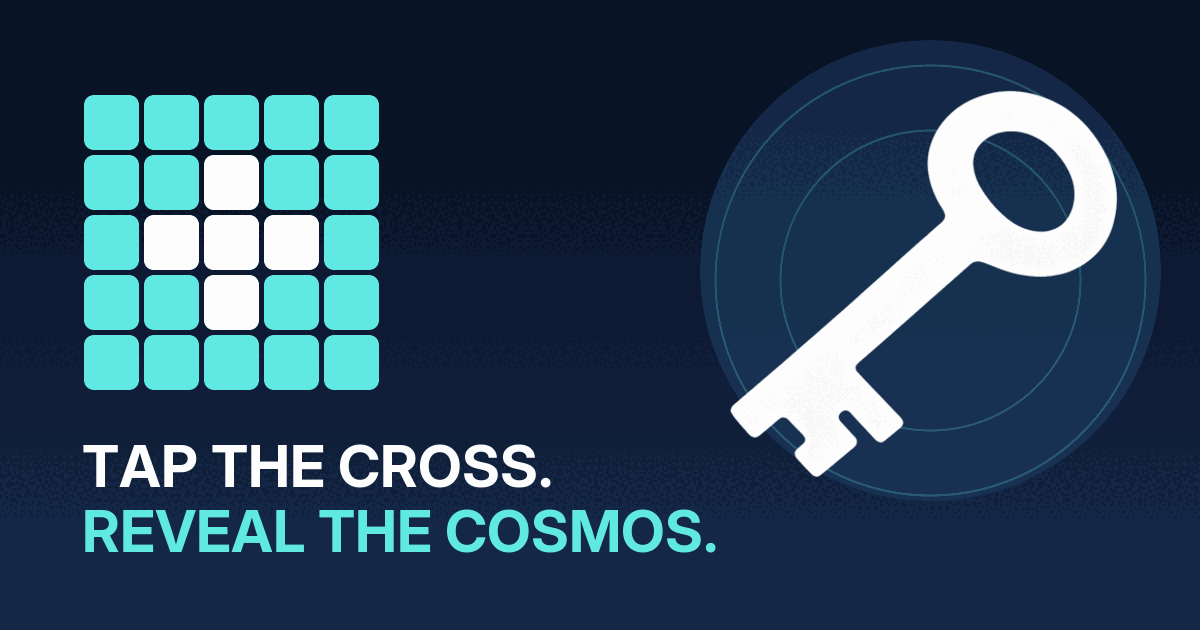
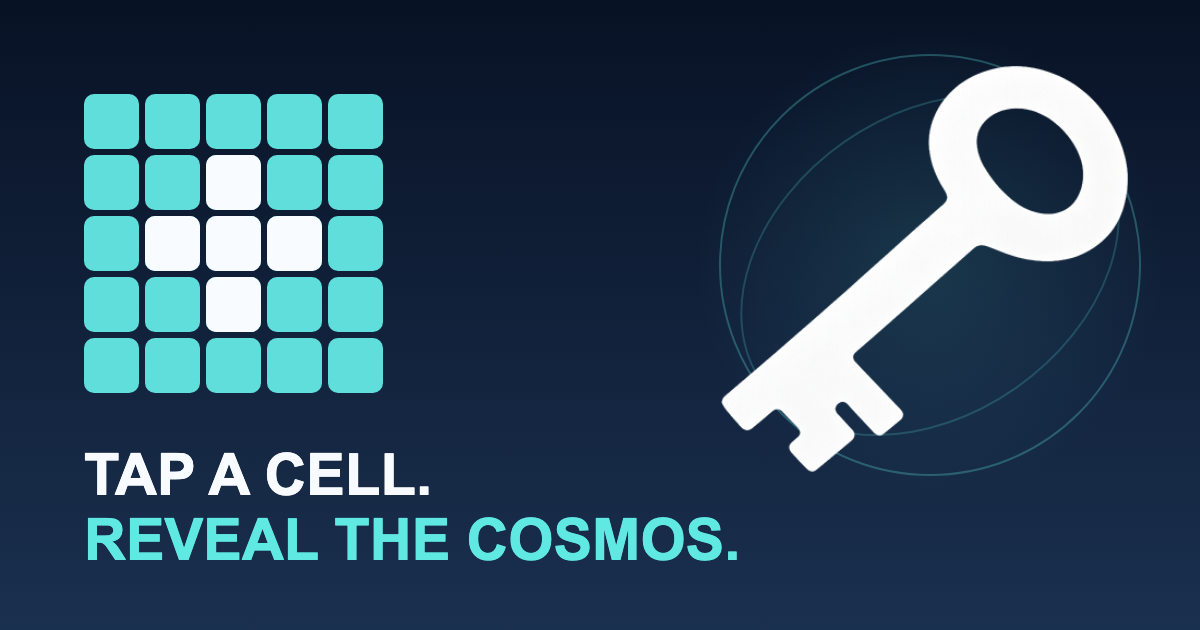
fix: align site copy with game localization

diff --git a/stage2-localization.js b/stage2-localization.js
@@ -48,6 +48,105 @@ window.stageTwoTranslations = {
     }
 };
 
+// Product copy aligned with the v1.2.0 in-game localization exports and ASO metadata.
+const alignedProductCopy = {
+    en: {
+        hero_eyebrow:'Calm 5×5 brain teasers',hero_title_stage2:'Tap a cell.<br>Reveal the cosmos.',hero_description:'Tap a cell to switch it and its adjacent cells. Clear all lights, collect Light Shards, adjust seven telescope lenses, and reveal one of 100 constellations.',
+        demo_title:'Clear all lights',demo_instruction:'Tap a cell — it and its adjacent cells will switch their state.',demo_reveal_title:'Key of Dreams',demo_reveal_lore:'The Key of Dreams was said to unlock hidden celestial paths.',
+        journey_eyebrow:'From puzzle to constellation',journey_intro:'Solve puzzles, adjust seven lenses, and capture a new constellation.',journey_solve_title:'Solve the puzzle',journey_solve_body:'Tap a cell — it and its adjacent cells will switch their state.',journey_shards_title:'Collect Light Shards',journey_shards_body:'Solve puzzles to collect Light Shards.',journey_lenses_title:'Adjust seven lenses',journey_lenses_body:'Each solved puzzle helps adjust one lens.',journey_reveal_title:'Reveal a constellation',journey_reveal_body:'Add its illustrated story to your Constellation archive.',
+        features_eyebrow:'New goals every day',feature_calm_title:'No timer—think at your own pace',feature_calm_body:'Plan each move and clear the grid within the move limit.',feature_daily_title:'Daily Challenge',feature_daily_body:'Every day has five stages. Clear all five to complete the day.',feature_missions_title:'Missions',feature_missions_body:'Complete goals as you play, earn Mission points, and claim milestone rewards.',feature_practice_title:'Practice',feature_practice_body:'Keep solving without rewards when you run out of Hearts. Core puzzles work offline.',
+        collection_eyebrow:'Constellation archive',collection_body:'Rebuild your telescope, reveal the Key of Dreams, and add every illustrated story to your archive.',gallery_eyebrow:'In-game screenshots'
+    },
+    ru: {
+        hero_eyebrow:'Спокойные головоломки 5×5',hero_title_stage2:'Нажмите на клетку.<br>Откройте космос.',hero_description:'Нажмите на клетку — она и соседние клетки изменят своё состояние. Погасите все огни, получайте осколки света, настраивайте семь линз телескопа и открывайте одно из 100 созвездий.',
+        demo_title:'Уберите все светящиеся клетки',demo_instruction:'Нажмите на клетку — она и соседние клетки изменят своё состояние.',demo_reveal_title:'Ключ Снов',demo_reveal_lore:'Считалось, что Ключ Снов открывает скрытые небесные тропы.',
+        journey_eyebrow:'От головоломки к созвездию',journey_intro:'Решайте головоломки, настраивайте семь линз и открывайте новое созвездие.',journey_solve_title:'Решите головоломку',journey_solve_body:'Нажмите на клетку — она и соседние клетки изменят своё состояние.',journey_shards_title:'Получайте осколки света',journey_shards_body:'Решайте головоломки и получайте осколки света.',journey_lenses_title:'Настройте семь линз',journey_lenses_body:'Каждый решённый пазл помогает настроить одну из линз.',journey_reveal_title:'Откройте созвездие',journey_reveal_body:'Добавьте его иллюстрированную историю в архив созвездий.',
+        features_eyebrow:'Новые цели каждый день',feature_calm_title:'Без таймера — думайте в своём темпе',feature_calm_body:'Продумывайте каждый ход и очистите поле за доступное число ходов.',feature_daily_title:'Ежедневное испытание',feature_daily_body:'Каждый день — 5 этапов. Пройдите все 5, чтобы закрыть день.',feature_missions_title:'Миссии',feature_missions_body:'Выполняйте игровые цели, получайте очки миссий и забирайте награды за достигнутые этапы.',feature_practice_title:'Тренировка',feature_practice_body:'Продолжайте решать головоломки без наград, когда закончатся сердца. Основные головоломки доступны офлайн.',
+        collection_eyebrow:'Архив созвездий',collection_body:'Восстановите телескоп, откройте Ключ Снов и добавьте все иллюстрированные истории в архив.',gallery_eyebrow:'Скриншоты из игры'
+    },
+    sr: {
+        hero_eyebrow:'Opuštajuće mozgalice 5×5',hero_title_stage2:'Dodirni polje.<br>Otkrij svemir.',hero_description:'Dodirni polje — ono i susedna polja promeniće stanje. Ugasi sva svetla, sakupljaj Oskolke svetla, podesi sedam sočiva teleskopa i otkrij jedno od 100 sazvežđa.',
+        demo_title:'Ukloni sva osvetljena polja',demo_instruction:'Dodirni polje — ono i susedna polja promeniće stanje.',demo_reveal_title:'Ključ Snova',demo_reveal_lore:'Smatralo se da Ključ Snova otključava skrivene nebeske puteve.',
+        journey_eyebrow:'Od zagonetke do sazvežđa',journey_intro:'Rešavaj zagonetke, podesi sedam sočiva i otkrij novo sazvežđe.',journey_solve_title:'Reši zagonetku',journey_solve_body:'Dodirni polje — ono i susedna polja promeniće stanje.',journey_shards_title:'Sakupljaj Oskolke svetla',journey_shards_body:'Rešavaj zagonetke i sakupljaj Oskolke svetla.',journey_lenses_title:'Podesi sedam sočiva',journey_lenses_body:'Svaka rešena slagalica pomaže da se jedno sočivo podesi.',journey_reveal_title:'Otkrij sazvežđe',journey_reveal_body:'Dodaj njegovu ilustrovanu priču u arhivu sazvežđa.',
+        features_eyebrow:'Novi ciljevi svakog dana',feature_calm_title:'Bez tajmera — razmišljaj svojim tempom',feature_calm_body:'Isplaniraj svaki potez i očisti mrežu u okviru ograničenog broja poteza.',feature_daily_title:'Dnevni izazov',feature_daily_body:'Svaki dan ima pet etapa. Završi svih pet da zatvoriš dan.',feature_missions_title:'Misije',feature_missions_body:'Ispunjavaj ciljeve tokom igre, osvajaj poene Misija i preuzimaj nagrade za dostignute etape.',feature_practice_title:'Trening',feature_practice_body:'Nastavi da rešavaš zagonetke bez nagrada kada ostaneš bez srca. Osnovne zagonetke mogu da se igraju oflajn.',
+        collection_eyebrow:'Arhiva sazvežđa',collection_body:'Obnovi teleskop, otkrij Ključ Snova i dodaj svaku ilustrovanu priču u arhivu.',gallery_eyebrow:'Snimci iz igre'
+    },
+    es: {
+        hero_eyebrow:'Acertijos relajantes 5×5',hero_title_stage2:'Toca una celda.<br>Revela el cosmos.',hero_description:'Toca una celda: ella y sus vecinas cambiarán de estado. Apaga todas las luces, consigue Fragmentos de luz, ajusta las siete lentes del telescopio y revela una de 100 constelaciones.',
+        demo_title:'Apaga todas las luces',demo_instruction:'Toca una celda: ella y sus vecinas cambiarán de estado.',demo_reveal_title:'Llave de los Sueños',demo_reveal_lore:'Se decía que la Llave de los Sueños abría caminos celestiales ocultos.',
+        journey_eyebrow:'Del acertijo a la constelación',journey_intro:'Resuelve acertijos, ajusta siete lentes y revela una nueva constelación.',journey_solve_title:'Resuelve el acertijo',journey_solve_body:'Toca una celda: ella y sus vecinas cambiarán de estado.',journey_shards_title:'Consigue Fragmentos de luz',journey_shards_body:'Resuelve acertijos para conseguir Fragmentos de luz.',journey_lenses_title:'Ajusta siete lentes',journey_lenses_body:'Cada acertijo resuelto ayuda a ajustar una lente.',journey_reveal_title:'Revela una constelación',journey_reveal_body:'Añade su historia ilustrada a tu archivo de constelaciones.',
+        features_eyebrow:'Un nuevo reto cada día',feature_calm_title:'Sin cronómetro: piensa a tu ritmo',feature_calm_body:'Planea cada movimiento y despeja la cuadrícula dentro del límite de jugadas.',feature_daily_title:'Reto Diario',feature_daily_body:'Cada día tiene cinco etapas. Supera las cinco para completar el día.',feature_missions_title:'Misiones',feature_missions_body:'Completa objetivos mientras juegas, gana puntos de misión y reclama recompensas por hitos.',feature_practice_title:'Entrenamiento',feature_practice_body:'Sigue jugando sin recompensas cuando te quedes sin corazones. Los acertijos principales funcionan sin conexión.',
+        collection_eyebrow:'Archivo de constelaciones',collection_body:'Reconstruye tu telescopio, revela la Llave de los Sueños y añade cada historia ilustrada a tu archivo.',gallery_eyebrow:'Capturas del juego'
+    },
+    pt: {
+        hero_eyebrow:'Desafios relaxantes em 5×5',hero_title_stage2:'Toque em uma célula.<br>Revele o cosmos.',hero_description:'Toque em uma célula — ela e as células ao lado mudarão de estado. Apague todas as luzes, colete Fragmentos de luz, ajuste as sete lentes do telescópio e revele uma das 100 constelações.',
+        demo_title:'Apague todas as luzes',demo_instruction:'Toque em uma célula — ela e as células ao lado mudarão de estado.',demo_reveal_title:'Chave dos Sonhos',demo_reveal_lore:'Diziam que a Chave dos Sonhos revelava caminhos celestes ocultos.',
+        journey_eyebrow:'Do desafio à constelação',journey_intro:'Resolva desafios, ajuste sete lentes e revele uma nova constelação.',journey_solve_title:'Resolva o desafio',journey_solve_body:'Toque em uma célula — ela e as células ao lado mudarão de estado.',journey_shards_title:'Colete Fragmentos de luz',journey_shards_body:'Resolva desafios para coletar Fragmentos de luz.',journey_lenses_title:'Ajuste sete lentes',journey_lenses_body:'Cada desafio resolvido ajuda a ajustar uma das lentes.',journey_reveal_title:'Revele uma constelação',journey_reveal_body:'Adicione sua história ilustrada ao arquivo de constelações.',
+        features_eyebrow:'Novos objetivos todos os dias',feature_calm_title:'Sem cronômetro — pense no seu ritmo',feature_calm_body:'Planeje cada jogada e limpe a grade dentro do limite de movimentos.',feature_daily_title:'Desafio Diário',feature_daily_body:'Cada dia tem cinco fases. Complete todas para concluir o dia.',feature_missions_title:'Missões',feature_missions_body:'Complete objetivos enquanto joga, ganhe pontos de missão e receba recompensas por marcos.',feature_practice_title:'Treinamento',feature_practice_body:'Continue jogando sem recompensas quando seus corações acabarem. Os desafios principais funcionam offline.',
+        collection_eyebrow:'Arquivo de constelações',collection_body:'Reconstrua seu telescópio, revele a Chave dos Sonhos e adicione cada história ilustrada ao arquivo.',gallery_eyebrow:'Capturas do jogo'
+    },
+    de: {
+        hero_eyebrow:'Entspannte 5×5-Denkspiele',hero_title_stage2:'Tippe ein Feld an.<br>Enthülle den Kosmos.',hero_description:'Tippe ein Feld an — es und seine benachbarten Felder wechseln den Zustand. Schalte alle Lichter aus, sammle Lichtfragmente, richte die sieben Linsen des Teleskops aus und enthülle eines von 100 Sternbildern.',
+        demo_title:'Schalte alle Lichter aus',demo_instruction:'Tippe ein Feld an — es und seine benachbarten Felder wechseln den Zustand.',demo_reveal_title:'Schlüssel der Träume',demo_reveal_lore:'Der Schlüssel der Träume sollte verborgene Himmelswege öffnen.',
+        journey_eyebrow:'Vom Rätsel zum Sternbild',journey_intro:'Löse Rätsel, richte sieben Linsen aus und enthülle ein neues Sternbild.',journey_solve_title:'Löse das Rätsel',journey_solve_body:'Tippe ein Feld an — es und seine benachbarten Felder wechseln den Zustand.',journey_shards_title:'Sammle Lichtfragmente',journey_shards_body:'Löse Rätsel und sammle Lichtfragmente.',journey_lenses_title:'Richte sieben Linsen aus',journey_lenses_body:'Jedes gelöste Puzzle hilft, eine Linse einzustellen.',journey_reveal_title:'Enthülle ein Sternbild',journey_reveal_body:'Nimm seine illustrierte Geschichte in dein Sternbildarchiv auf.',
+        features_eyebrow:'Täglich neue Ziele',feature_calm_title:'Kein Timer — denke in deinem Tempo',feature_calm_body:'Plane jeden Zug und räume das Feld innerhalb des Zuglimits.',feature_daily_title:'Tägliche Herausforderung',feature_daily_body:'Jeder Tag hat fünf Stufen. Schließe alle fünf ab, um den Tag zu beenden.',feature_missions_title:'Missionen',feature_missions_body:'Erfülle beim Spielen Ziele, verdiene Missionspunkte und sichere dir Meilenstein-Belohnungen.',feature_practice_title:'Training',feature_practice_body:'Spiele ohne Belohnungen weiter, wenn dir die Herzen ausgehen. Die Kernrätsel funktionieren offline.',
+        collection_eyebrow:'Sternbildarchiv',collection_body:'Baue dein Teleskop wieder auf, enthülle den Schlüssel der Träume und nimm jede illustrierte Geschichte in dein Archiv auf.',gallery_eyebrow:'Screenshots aus dem Spiel'
+    },
+    fr: {
+        hero_eyebrow:'Casse-têtes relaxants en 5×5',hero_title_stage2:'Touchez une case.<br>Révélez le cosmos.',hero_description:'Touchez une case — elle et ses voisines changent d’état. Éteignez toutes les lumières, collectez des Fragments de lumière, réglez les sept lentilles du télescope et révélez l’une des 100 constellations.',
+        demo_title:'Éteignez toutes les lumières',demo_instruction:'Touchez une case — elle et ses voisines changent d’état.',demo_reveal_title:'Clé des Rêves',demo_reveal_lore:'La Clé des Rêves aurait ouvert des chemins célestes cachés.',
+        journey_eyebrow:'De la grille à la constellation',journey_intro:'Résolvez des grilles, réglez sept lentilles et révélez une nouvelle constellation.',journey_solve_title:'Résolvez l’énigme',journey_solve_body:'Touchez une case — elle et ses voisines changent d’état.',journey_shards_title:'Collectez des Fragments de lumière',journey_shards_body:'Résolvez des grilles pour obtenir des Fragments de lumière.',journey_lenses_title:'Réglez sept lentilles',journey_lenses_body:'Chaque grille résolue aide à régler une lentille.',journey_reveal_title:'Révélez une constellation',journey_reveal_body:'Ajoutez son histoire illustrée à vos archives de constellations.',
+        features_eyebrow:'Un rituel quotidien',feature_calm_title:'Aucun chrono — réfléchissez à votre rythme',feature_calm_body:'Planifiez vos coups et videz la grille sans dépasser la limite.',feature_daily_title:'Défi Quotidien',feature_daily_body:'Chaque jour comprend cinq étapes. Terminez-les toutes pour valider la journée.',feature_missions_title:'Missions',feature_missions_body:'Accomplissez des objectifs en jouant, gagnez des points de mission et récupérez les récompenses de palier.',feature_practice_title:'Entraînement',feature_practice_body:'Continuez à jouer sans récompenses lorsque vous n’avez plus de cœurs. Les énigmes principales fonctionnent hors ligne.',
+        collection_eyebrow:'Archive des constellations',collection_body:'Reconstruisez votre télescope, révélez la Clé des Rêves et ajoutez chaque histoire illustrée à vos archives.',gallery_eyebrow:'Captures du jeu'
+    },
+    ja: {
+        hero_eyebrow:'5×5で解く癒やしの脳トレ',hero_title_stage2:'マスをタップ。<br>宇宙を探索しよう。',hero_description:'マスをタップすると、そのマスと上下左右のマスが切り替わります。ライトをすべて消して「光のかけら」を集め、7つのレンズを調整し、100個の星座を見つけましょう。',
+        demo_title:'ライトをすべて消そう',demo_instruction:'マスをタップすると、そのマスと隣接するマスの状態が切り替わります。',demo_reveal_title:'夢の鍵',demo_reveal_lore:'夢の鍵は、隠された天の道を開くと言われていました。',
+        journey_eyebrow:'パズルから星座へ',journey_intro:'パズルを解き、7つのレンズを調整して、新しい星座を見つけましょう。',journey_solve_title:'パズルを解く',journey_solve_body:'マスをタップすると、そのマスと隣接するマスの状態が切り替わります。',journey_shards_title:'「光のかけら」を集める',journey_shards_body:'パズルをクリアして「光のかけら」を集めましょう。',journey_lenses_title:'7つのレンズを調整',journey_lenses_body:'パズルを解くとレンズの調整が進みます。',journey_reveal_title:'星座を発見',journey_reveal_body:'イラスト付きの物語を星座アーカイブに加えましょう。',
+        features_eyebrow:'毎日楽しめる目標',feature_calm_title:'時間制限なし。自分のペースで考えよう',feature_calm_body:'手数の上限までに盤面をそろえられるよう、一手ずつ考えましょう。',feature_daily_title:'デイリーチャレンジ',feature_daily_body:'毎日5つのステージがあります。5つすべてをクリアしてその日を完了にしましょう。',feature_missions_title:'ミッション',feature_missions_body:'プレイ中に目標を達成してミッションポイントを獲得し、マイルストーン報酬を受け取りましょう。',feature_practice_title:'トレーニング',feature_practice_body:'ハートがなくなっても、報酬なしでパズルを続けられます。基本のパズルはオフラインでもプレイできます。',
+        collection_eyebrow:'星座アーカイブ',collection_body:'望遠鏡を組み立て、「夢の鍵」を見つけ、イラスト付きの物語をアーカイブに加えましょう。',gallery_eyebrow:'ゲーム内スクリーンショット'
+    },
+    ko: {
+        hero_eyebrow:'차분하게 푸는 5×5 두뇌 게임',hero_title_stage2:'칸을 탭하세요.<br>우주를 밝혀 보세요.',hero_description:'칸을 탭하면 해당 칸과 인접한 칸의 상태가 바뀝니다. 모든 불빛을 끄고 빛의 파편을 모아 망원경의 렌즈 7개를 조정한 뒤 100개의 별자리 중 하나를 밝혀 보세요.',
+        demo_title:'모든 불빛을 끄세요',demo_instruction:'칸을 탭하면 해당 칸과 인접한 칸의 상태가 바뀝니다.',demo_reveal_title:'꿈의 열쇠',demo_reveal_lore:'꿈의 열쇠는 숨겨진 천상의 길을 열어 준다고 전해집니다.',
+        journey_eyebrow:'퍼즐에서 별자리까지',journey_intro:'퍼즐을 풀고 렌즈 7개를 조정해 새로운 별자리를 밝혀 보세요.',journey_solve_title:'퍼즐 풀기',journey_solve_body:'칸을 탭하면 해당 칸과 인접한 칸의 상태가 바뀝니다.',journey_shards_title:'빛의 파편 모으기',journey_shards_body:'퍼즐을 풀어 빛의 파편을 모으세요.',journey_lenses_title:'렌즈 7개 조정',journey_lenses_body:'퍼즐을 풀면 렌즈 조정이 진행됩니다.',journey_reveal_title:'별자리 밝히기',journey_reveal_body:'삽화가 담긴 이야기를 별자리 아카이브에 추가하세요.',
+        features_eyebrow:'매일 이어지는 목표',feature_calm_title:'시간제한 없이 내 속도대로',feature_calm_body:'제한된 이동 횟수 안에 격자를 정리할 수 있도록 한 수씩 계획하세요.',feature_daily_title:'데일리 챌린지',feature_daily_body:'매일 5개의 스테이지가 있습니다. 모두 완료하면 그날의 도전이 완성됩니다.',feature_missions_title:'미션',feature_missions_body:'플레이하며 목표를 완료해 미션 포인트를 모으고 마일스톤 보상을 받으세요.',feature_practice_title:'연습 모드',feature_practice_body:'하트를 모두 사용한 뒤에도 보상 없이 퍼즐을 계속 플레이할 수 있습니다. 기본 퍼즐은 오프라인에서도 플레이할 수 있습니다.',
+        collection_eyebrow:'별자리 아카이브',collection_body:'망원경을 완성하고 꿈의 열쇠를 밝혀 모든 삽화 이야기를 아카이브에 추가하세요.',gallery_eyebrow:'게임 스크린샷'
+    },
+    tr: {
+        hero_eyebrow:'Rahatlatıcı 5×5 bulmacaları',hero_title_stage2:'Bir hücreye dokun.<br>Uzayı keşfet.',hero_description:'Bir hücreye dokun — o ve komşu hücreler durum değiştirsin. Tüm ışıkları söndür, Işık Parçaları topla, teleskobun yedi merceğini hizala ve 100 takımyıldızdan birini ortaya çıkar.',
+        demo_title:'Tüm ışıkları söndür',demo_instruction:'Bir hücreye dokun — o ve yanındaki hücreler durum değiştirecek.',demo_reveal_title:'Rüyaların Anahtarı',demo_reveal_lore:'Rüyaların Anahtarı’nın gizli göksel yolları açtığı söylenirdi.',
+        journey_eyebrow:'Bulmacadan takımyıldıza',journey_intro:'Bulmacaları çöz, yedi merceği ayarla ve yeni bir takımyıldızı ortaya çıkar.',journey_solve_title:'Bulmacayı çöz',journey_solve_body:'Bir hücreye dokun — o ve yanındaki hücreler durum değiştirecek.',journey_shards_title:'Işık Parçaları topla',journey_shards_body:'Bulmacaları çözerek Işık Parçaları topla.',journey_lenses_title:'Yedi merceği ayarla',journey_lenses_body:'Çözülen her bulmaca bir merceğin ayarına yardımcı olur.',journey_reveal_title:'Bir takımyıldızı ortaya çıkar',journey_reveal_body:'Resimli hikâyesini Takımyıldız arşivine ekle.',
+        features_eyebrow:'Her gün yeni bir hedef',feature_calm_title:'Süre sınırı yok — kendi hızında düşün',feature_calm_body:'Her hamleyi planla ve hamle sınırını aşmadan ızgarayı temizle.',feature_daily_title:'Günlük Görev',feature_daily_body:'Her günün beş aşaması var. Günü tamamlamak için hepsini geç.',feature_missions_title:'Görevler',feature_missions_body:'Oynarken hedefleri tamamla, görev puanı kazan ve aşama ödüllerini al.',feature_practice_title:'Antrenman',feature_practice_body:'Kalplerin bittiğinde ödülsüz bulmaca çözmeye devam et. Temel bulmacalar çevrimdışı oynanabilir.',
+        collection_eyebrow:'Takımyıldız arşivi',collection_body:'Teleskobunu yeniden kur, Rüyaların Anahtarı’nı ortaya çıkar ve her resimli hikâyeyi arşivine ekle.',gallery_eyebrow:'Oyun içi ekran görüntüleri'
+    },
+    th: {
+        hero_eyebrow:'เกมฝึกสมอง 5×5 แสนผ่อนคลาย',hero_title_stage2:'แตะหนึ่งช่อง<br>ค้นพบจักรวาล',hero_description:'แตะหนึ่งช่อง แล้วช่องนั้นกับช่องรอบข้างจะสลับสถานะ ดับไฟทั้งหมด เก็บเศษแสง ปรับเลนส์กล้องโทรทรรศน์ทั้งเจ็ด และเปิดเผยหนึ่งในกลุ่มดาว 100 กลุ่ม',
+        demo_title:'ดับไฟทั้งหมด',demo_instruction:'แตะช่องหนึ่งช่อง — ช่องนั้นและช่องรอบข้างจะสลับสถานะ',demo_reveal_title:'กุญแจแห่งความฝัน',demo_reveal_lore:'เชื่อกันว่ากุญแจแห่งความฝันสามารถเปิดเส้นทางลับในท้องฟ้าได้',
+        journey_eyebrow:'จากปริศนาสู่กลุ่มดาว',journey_intro:'ไขปริศนา ปรับเลนส์ทั้งเจ็ด และเปิดเผยกลุ่มดาวใหม่',journey_solve_title:'ไขปริศนา',journey_solve_body:'แตะช่องหนึ่งช่อง — ช่องนั้นและช่องรอบข้างจะสลับสถานะ',journey_shards_title:'เก็บเศษแสง',journey_shards_body:'ไขปริศนาให้สำเร็จเพื่อเก็บเศษแสง',journey_lenses_title:'ปรับเลนส์ทั้งเจ็ด',journey_lenses_body:'การแก้ปริศนาแต่ละครั้งจะช่วยปรับเลนส์หนึ่งตัว',journey_reveal_title:'เปิดเผยกลุ่มดาว',journey_reveal_body:'เพิ่มเรื่องราวพร้อมภาพประกอบลงในคลังกลุ่มดาว',
+        features_eyebrow:'เป้าหมายใหม่ทุกวัน',feature_calm_title:'ไม่มีตัวจับเวลา คิดได้ตามจังหวะของคุณ',feature_calm_body:'วางแผนแต่ละก้าวและเคลียร์ตารางภายในจำนวนครั้งที่กำหนด',feature_daily_title:'ภารกิจประจำวัน',feature_daily_body:'แต่ละวันมี 5 ด่าน ผ่านทั้ง 5 ด่านเพื่อทำวันนั้นให้ครบ',feature_missions_title:'ภารกิจ',feature_missions_body:'ทำเป้าหมายระหว่างเล่น รับแต้มภารกิจ และรับรางวัลตามขั้น',feature_practice_title:'ฝึกฝน',feature_practice_body:'เมื่อหัวใจหมด ให้เล่นปริศนาต่อได้โดยไม่มีรางวัล ปริศนาหลักเล่นแบบออฟไลน์ได้',
+        collection_eyebrow:'คลังกลุ่มดาว',collection_body:'ประกอบกล้องโทรทรรศน์ เปิดเผยกุญแจแห่งความฝัน และเพิ่มเรื่องราวพร้อมภาพประกอบทั้งหมดลงในคลัง',gallery_eyebrow:'ภาพหน้าจอจากเกม'
+    },
+    id: {
+        hero_eyebrow:'Teka-teki logika santai 5×5',hero_title_stage2:'Ketuk satu sel.<br>Ungkap kosmos.',hero_description:'Ketuk satu sel — sel itu dan sel di sekitarnya akan berubah status. Matikan semua cahaya, kumpulkan Pecahan Cahaya, sesuaikan tujuh lensa teleskop, dan ungkap satu dari 100 rasi bintang.',
+        demo_title:'Matikan semua cahaya',demo_instruction:'Ketuk satu sel — sel itu dan sel di sekitarnya akan berubah status.',demo_reveal_title:'Kunci Mimpi',demo_reveal_lore:'Konon, Kunci Mimpi membuka jalur langit tersembunyi.',
+        journey_eyebrow:'Dari teka-teki ke rasi bintang',journey_intro:'Selesaikan teka-teki, sesuaikan tujuh lensa, dan ungkap rasi bintang baru.',journey_solve_title:'Selesaikan teka-teki',journey_solve_body:'Ketuk satu sel — sel itu dan sel di sekitarnya akan berubah status.',journey_shards_title:'Kumpulkan Pecahan Cahaya',journey_shards_body:'Selesaikan teka-teki untuk mengumpulkan Pecahan Cahaya.',journey_lenses_title:'Sesuaikan tujuh lensa',journey_lenses_body:'Setiap teka-teki yang terselesaikan membantu menyesuaikan satu lensa.',journey_reveal_title:'Ungkap rasi bintang',journey_reveal_body:'Tambahkan kisah berilustrasinya ke Arsip rasi bintang.',
+        features_eyebrow:'Tujuan baru setiap hari',feature_calm_title:'Tanpa timer — berpikirlah sesuai ritmemu',feature_calm_body:'Rencanakan setiap langkah dan bersihkan kisi sebelum batas langkah habis.',feature_daily_title:'Tantangan Harian',feature_daily_body:'Setiap hari memiliki lima tahap. Selesaikan semuanya untuk menuntaskan hari.',feature_missions_title:'Misi',feature_missions_body:'Selesaikan target saat bermain, dapatkan poin misi, dan raih hadiah pencapaian.',feature_practice_title:'Latihan',feature_practice_body:'Lanjutkan bermain tanpa hadiah saat hati habis. Teka-teki utama dapat dimainkan offline.',
+        collection_eyebrow:'Arsip rasi bintang',collection_body:'Rakit kembali teleskopmu, ungkap Kunci Mimpi, dan tambahkan setiap kisah berilustrasi ke arsip.',gallery_eyebrow:'Tangkapan layar dalam game'
+    },
+    zh: {
+        hero_eyebrow:'轻松解开5×5脑力挑战',hero_title_stage2:'点击一个格子。<br>探索宇宙。',hero_description:'点击一个格子，它和相邻格子都会切换状态。熄灭所有灯光，收集光之碎片，校准望远镜的七块镜片，并探索100个星座中的一个。',
+        demo_title:'熄灭所有灯光',demo_instruction:'点击一个格子——它和相邻格子会切换状态。',demo_reveal_title:'梦之钥匙',demo_reveal_lore:'据说梦之钥匙能够开启隐藏的天路。',
+        journey_eyebrow:'从谜题到星座',journey_intro:'解开谜题，校准七块镜片，探索新的星座。',journey_solve_title:'解开谜题',journey_solve_body:'点击一个格子——它和相邻格子会切换状态。',journey_shards_title:'收集光之碎片',journey_shards_body:'解开谜题，收集光之碎片。',journey_lenses_title:'校准七块镜片',journey_lenses_body:'每解开一个谜题都会帮助调整一片镜片。',journey_reveal_title:'探索星座',journey_reveal_body:'将配有插图的故事收入星座档案。',
+        features_eyebrow:'每天都有新目标',feature_calm_title:'没有计时器，按自己的节奏思考',feature_calm_body:'规划每一步，在限定步数内清空网格。',feature_daily_title:'每日挑战',feature_daily_body:'每天有五个阶段。全部通关即可完成当天的挑战。',feature_missions_title:'任务',feature_missions_body:'在游玩过程中完成目标，赢取任务点数并领取里程碑奖励。',feature_practice_title:'训练模式',feature_practice_body:'爱心用尽后也可继续解谜，但无法获得奖励。核心谜题支持离线游玩。',
+        collection_eyebrow:'星座档案',collection_body:'重建望远镜，揭示梦之钥匙，并将每个配有插图的故事收入档案。',gallery_eyebrow:'游戏实机截图'
+    }
+};
+
+Object.entries(alignedProductCopy).forEach(([language, copy]) => {
+    Object.assign(window.stageTwoTranslations[language], copy);
+});
+
 const languageSelectTranslations = {
     en: 'Language',
     ru: 'Язык',

diff --git a/index.html b/index.html
@@ -4,15 +4,15 @@
     <meta charset="utf-8">
     <meta name="viewport" content="width=device-width, initial-scale=1">
     <title>Astronigma: Star Logic Puzzle</title>
-    <meta name="description" content="Tap a cell to change a cross, solve calm 5×5 puzzles, and reveal 100 constellations.">
+    <meta name="description" content="Flip grid cells, solve calm 5×5 logic puzzles, and reveal 100 constellations.">
     <meta name="theme-color" content="#070b18">
-    <meta property="og:title" content="Astronigma: Tap the cross. Reveal the cosmos.">
+    <meta property="og:title" content="Astronigma: Tap a cell. Reveal the cosmos.">
     <meta property="og:description" content="Solve calm 5×5 logic puzzles, collect Light Shards, and reveal 100 constellations.">
     <meta property="og:image" content="https://astronigma.net/assets/images/og_image.png">
     <meta property="og:url" content="https://astronigma.net">
     <meta property="og:type" content="website">
     <meta name="twitter:card" content="summary_large_image">
-    <meta name="twitter:title" content="Astronigma: Tap the cross. Reveal the cosmos.">
+    <meta name="twitter:title" content="Astronigma: Tap a cell. Reveal the cosmos.">
     <meta name="twitter:description" content="Solve calm 5×5 logic puzzles and reveal 100 constellations.">
     <meta name="twitter:image" content="https://astronigma.net/assets/images/og_image.png">
     <link rel="icon" type="image/png" href="assets/images/favicon.png">
@@ -28,7 +28,7 @@
       "operatingSystem": "iOS, Android",
       "applicationCategory": "GameApplication",
       "genre": "Puzzle",
-      "description": "Tap a cell to change a cross, solve calm 5×5 puzzles, and reveal 100 constellations.",
+      "description": "Flip grid cells, solve calm 5×5 logic puzzles, and reveal 100 constellations.",
       "image": "https://astronigma.net/assets/images/og_image.png",
       "installUrl": [
         "https://apps.apple.com/app/id6751862462",
@@ -70,9 +70,9 @@
         <section id="hero" class="hero-section">
             <div class="container hero-layout">
                 <div class="hero-copy">
-                    <p class="eyebrow" data-i18n="hero_eyebrow">Calm 5×5 cross-toggle puzzle</p>
-                    <h1 data-i18n="hero_title_stage2">Tap the cross.<br>Reveal the cosmos.</h1>
-                    <p class="hero-lead" data-i18n="hero_description">Each tap changes a cross of lights. Clear the grid at your own pace, earn Light Shards, tune seven lenses, and uncover one of 100 constellations.</p>
+                    <p class="eyebrow" data-i18n="hero_eyebrow">Calm 5×5 brain teasers</p>
+                    <h1 data-i18n="hero_title_stage2">Tap a cell.<br>Reveal the cosmos.</h1>
+                    <p class="hero-lead" data-i18n="hero_description">Tap a cell to switch it and its adjacent cells. Clear all lights, collect Light Shards, adjust seven telescope lenses, and reveal one of 100 constellations.</p>
                     <ul class="hero-facts" aria-label="Game highlights">
                         <li data-i18n="hero_fact_timer">No timer</li>
                         <li data-i18n="hero_fact_constellations">100 constellations</li>
@@ -96,8 +96,8 @@
                         <span id="demo-moves" aria-live="polite">0 moves</span>
                     </div>
                     <div id="demo-play" class="demo-play">
-                        <h2 id="demo-title" data-i18n="demo_title">Turn every light off</h2>
-                        <p id="demo-instruction" data-i18n="demo_instruction">Choose a cell. It and its orthogonal neighbours will change.</p>
+                        <h2 id="demo-title" data-i18n="demo_title">Clear all lights</h2>
+                        <p id="demo-instruction" data-i18n="demo_instruction">Tap a cell — it and its adjacent cells will switch their state.</p>
                         <div id="lights-out-grid" class="lights-out-grid" role="group" aria-describedby="demo-instruction"></div>
                         <div class="demo-actions">
                             <button id="demo-reset" type="button" class="text-button" data-i18n="demo_reset">Reset board</button>
@@ -113,7 +113,7 @@
                         </div>
                         <p class="eyebrow" data-i18n="demo_reveal_eyebrow">Constellation revealed</p>
                         <h2 data-i18n="demo_reveal_title">Key of Dreams</h2>
-                        <p data-i18n="demo_reveal_lore">A quiet key said to unlock the border between memory and dream.</p>
+                        <p data-i18n="demo_reveal_lore">The Key of Dreams was said to unlock hidden celestial paths.</p>
                         <button id="demo-new-game" type="button" class="btn secondary" data-i18n="demo_play_again">Try another puzzle</button>
                         <div class="store-row compact">
                             <a href="https://apps.apple.com/app/id6751862462" class="store-btn" data-store="app_store" data-placement="demo_reveal"><img src="assets/images/logo-apple.svg" alt="" width="22" height="22"><span><small data-i18n="store_apple_small">Download on the</small><strong data-i18n="store_apple_large">App Store</strong></span></a>
@@ -127,27 +127,27 @@
         <section id="journey" class="section journey-section">
             <div class="container">
                 <div class="section-heading">
-                    <p class="eyebrow" data-i18n="journey_eyebrow">One complete celestial loop</p>
+                    <p class="eyebrow" data-i18n="journey_eyebrow">From puzzle to constellation</p>
                     <h2 data-i18n="how_to_play_title">How it works</h2>
-                    <p data-i18n="journey_intro">Every solved board moves your telescope closer to a new story in the sky.</p>
+                    <p data-i18n="journey_intro">Solve puzzles, adjust seven lenses, and capture a new constellation.</p>
                 </div>
                 <ol class="journey-grid">
-                    <li class="journey-card"><span class="step-number">01</span><div class="mini-grid" aria-hidden="true"><i></i><i></i><i class="on"></i><i></i><i></i><i></i><i class="on"></i><i class="on"></i><i class="on"></i><i></i><i class="on"></i><i class="on"></i><i class="on core"></i><i class="on"></i><i class="on"></i><i></i><i class="on"></i><i class="on"></i><i class="on"></i><i></i><i></i><i></i><i class="on"></i><i></i><i></i></div><h3 data-i18n="journey_solve_title">Solve the grid</h3><p data-i18n="journey_solve_body">One tap changes the selected light and its four neighbours.</p></li>
-                    <li class="journey-card"><span class="step-number">02</span><picture><source srcset="assets/images/game/light-shards.webp" type="image/webp"><img src="assets/images/game/light-shards.png" alt="" width="96" height="96" loading="lazy" decoding="async"></picture><h3 data-i18n="journey_shards_title">Collect Light Shards</h3><p data-i18n="journey_shards_body">A clear board rewards the energy that powers the telescope.</p></li>
-                    <li class="journey-card"><span class="step-number">03</span><picture><source srcset="assets/images/game/lenses.webp" type="image/webp"><img src="assets/images/game/lenses.png" alt="" width="96" height="96" loading="lazy" decoding="async"></picture><h3 data-i18n="journey_lenses_title">Tune seven lenses</h3><p data-i18n="journey_lenses_body">Use seven lens settings to bring the hidden pattern into focus.</p></li>
-                    <li class="journey-card"><span class="step-number">04</span><picture><source srcset="assets/images/game/constellation-key.webp" type="image/webp"><img src="assets/images/game/constellation-key.png" alt="" width="374" height="376" loading="lazy" decoding="async"></picture><h3 data-i18n="journey_reveal_title">Reveal its story</h3><p data-i18n="journey_reveal_body">Add a constellation and its lore to your celestial archive.</p></li>
+                    <li class="journey-card"><span class="step-number">01</span><div class="mini-grid" aria-hidden="true"><i></i><i></i><i class="on"></i><i></i><i></i><i></i><i class="on"></i><i class="on"></i><i class="on"></i><i></i><i class="on"></i><i class="on"></i><i class="on core"></i><i class="on"></i><i class="on"></i><i></i><i class="on"></i><i class="on"></i><i class="on"></i><i></i><i></i><i></i><i class="on"></i><i></i><i></i></div><h3 data-i18n="journey_solve_title">Solve the puzzle</h3><p data-i18n="journey_solve_body">Tap a cell — it and its adjacent cells will switch their state.</p></li>
+                    <li class="journey-card"><span class="step-number">02</span><picture><source srcset="assets/images/game/light-shards.webp" type="image/webp"><img src="assets/images/game/light-shards.png" alt="" width="96" height="96" loading="lazy" decoding="async"></picture><h3 data-i18n="journey_shards_title">Collect Light Shards</h3><p data-i18n="journey_shards_body">Solve puzzles to collect Light Shards.</p></li>
+                    <li class="journey-card"><span class="step-number">03</span><picture><source srcset="assets/images/game/lenses.webp" type="image/webp"><img src="assets/images/game/lenses.png" alt="" width="96" height="96" loading="lazy" decoding="async"></picture><h3 data-i18n="journey_lenses_title">Adjust seven lenses</h3><p data-i18n="journey_lenses_body">Each solved puzzle helps adjust one lens.</p></li>
+                    <li class="journey-card"><span class="step-number">04</span><picture><source srcset="assets/images/game/constellation-key.webp" type="image/webp"><img src="assets/images/game/constellation-key.png" alt="" width="374" height="376" loading="lazy" decoding="async"></picture><h3 data-i18n="journey_reveal_title">Reveal a constellation</h3><p data-i18n="journey_reveal_body">Add its illustrated story to your Constellation archive.</p></li>
                 </ol>
             </div>
         </section>
 
         <section id="features" class="section features-section">
             <div class="container">
-                <div class="section-heading"><p class="eyebrow" data-i18n="features_eyebrow">A puzzle ritual for every day</p><h2 data-i18n="features_title">Play your way</h2></div>
+                <div class="section-heading"><p class="eyebrow" data-i18n="features_eyebrow">New goals every day</p><h2 data-i18n="features_title">Play your way</h2></div>
                 <div class="features-grid">
-                    <article class="feature-card calm-card"><div class="feature-symbol" aria-hidden="true">5×5</div><h3 data-i18n="feature_calm_title">Calm logic, no timer</h3><p data-i18n="feature_calm_body">Read the cross pattern and think ahead without a countdown.</p></article>
-                        <article class="feature-card"><picture><source srcset="assets/images/game/daily-challenge.webp" type="image/webp"><img src="assets/images/game/daily-challenge.png" alt="" width="114" height="128" loading="lazy" decoding="async"></picture><h3 data-i18n="feature_daily_title">Daily Challenge</h3><p data-i18n="feature_daily_body">A fresh five-stage route through the stars every day.</p></article>
-                    <article class="feature-card"><picture><source srcset="assets/images/game/missions.webp" type="image/webp"><img src="assets/images/game/missions.png" alt="" width="72" height="72" loading="lazy" decoding="async"></picture><h3 data-i18n="feature_missions_title">Seasonal Missions</h3><p data-i18n="feature_missions_body">Complete weekly goals, reach milestones, and claim rewards.</p></article>
-                    <article class="feature-card"><div class="feature-symbol" aria-hidden="true">∞</div><h3 data-i18n="feature_practice_title">Practice anywhere</h3><p data-i18n="feature_practice_body">Sharpen the core puzzle in Practice. Core gameplay works offline.</p></article>
+                    <article class="feature-card calm-card"><div class="feature-symbol" aria-hidden="true">5×5</div><h3 data-i18n="feature_calm_title">No timer—think at your own pace</h3><p data-i18n="feature_calm_body">Plan each move and clear the grid within the move limit.</p></article>
+                        <article class="feature-card"><picture><source srcset="assets/images/game/daily-challenge.webp" type="image/webp"><img src="assets/images/game/daily-challenge.png" alt="" width="114" height="128" loading="lazy" decoding="async"></picture><h3 data-i18n="feature_daily_title">Daily Challenge</h3><p data-i18n="feature_daily_body">Every day has five stages. Clear all five to complete the day.</p></article>
+                    <article class="feature-card"><picture><source srcset="assets/images/game/missions.webp" type="image/webp"><img src="assets/images/game/missions.png" alt="" width="72" height="72" loading="lazy" decoding="async"></picture><h3 data-i18n="feature_missions_title">Missions</h3><p data-i18n="feature_missions_body">Complete goals as you play, earn Mission points, and claim milestone rewards.</p></article>
+                    <article class="feature-card"><div class="feature-symbol" aria-hidden="true">∞</div><h3 data-i18n="feature_practice_title">Practice</h3><p data-i18n="feature_practice_body">Keep solving without rewards when you run out of Hearts. Core puzzles work offline.</p></article>
                 </div>
             </div>
         </section>
@@ -155,13 +155,13 @@
         <section id="collection" class="section collection-section">
             <div class="container collection-layout">
                 <div class="collection-art" aria-hidden="true"><div class="orbit orbit-one"></div><div class="orbit orbit-two"></div><picture><source srcset="assets/images/game/constellation-key.webp" type="image/webp"><img src="assets/images/game/constellation-key.png" alt="" width="374" height="376" loading="lazy" decoding="async"></picture></div>
-                <div class="collection-copy"><p class="eyebrow" data-i18n="collection_eyebrow">A celestial archive to complete</p><h2 data-i18n="collection_title">100 constellations. 100 stories.</h2><p data-i18n="collection_body">Restore the telescope, reveal figures like the Key of Dreams, and keep every discovery in your collection.</p><div class="collection-stat"><strong>100</strong><span data-i18n="collection_stat">constellations to reveal</span></div></div>
+                <div class="collection-copy"><p class="eyebrow" data-i18n="collection_eyebrow">Constellation archive</p><h2 data-i18n="collection_title">100 constellations. 100 stories.</h2><p data-i18n="collection_body">Rebuild your telescope, reveal the Key of Dreams, and add every illustrated story to your archive.</p><div class="collection-stat"><strong>100</strong><span data-i18n="collection_stat">constellations to reveal</span></div></div>
             </div>
         </section>
 
         <section id="gallery" class="section gallery-section">
             <div class="container">
-                <div class="section-heading"><p class="eyebrow" data-i18n="gallery_eyebrow">Real in-game screens</p><h2 data-i18n="gallery_title">Gallery</h2><p data-i18n="gallery_intro">From the first grid to a growing archive of celestial stories.</p></div>
+                <div class="section-heading"><p class="eyebrow" data-i18n="gallery_eyebrow">In-game screenshots</p><h2 data-i18n="gallery_title">Gallery</h2><p data-i18n="gallery_intro">From the first grid to a growing archive of celestial stories.</p></div>
                 <div class="gallery-track" id="gallery-track"></div>
             </div>
         </section>
@@ -202,8 +202,8 @@
         <div class="analytics-consent-actions"><button type="button" id="analytics-consent-reject" class="consent-button">Reject</button><button type="button" id="analytics-consent-accept" class="consent-button">Accept</button></div>
     </section>
 
-    <script src="stage2-localization.js?v=stage2" defer></script>
-    <script src="localization.js?v=stage2" defer></script>
+    <script src="stage2-localization.js?v=stage3-copy" defer></script>
+    <script src="localization.js?v=stage3-copy" defer></script>
     <script src="lights-out.js?v=stage2" defer></script>
     <script src="analytics.js?v=stage2" defer></script>
     <script src="script.js?v=stage2" defer></script>

diff --git a/tools/test_localizations.js b/tools/test_localizations.js
@@ -21,4 +21,29 @@ for (const locale of locales) {
     }
     if (locale !== 'en' && identicalEnglishValues > 3) throw new Error(`${locale} contains too much English fallback copy.`);
 }
+
+const canonicalProductTerms = {
+    en: ['Key of Dreams', 'Daily Challenge', 'Missions', 'Practice', 'Constellation archive'],
+    ru: ['Ключ Снов', 'Ежедневное испытание', 'Миссии', 'Тренировка', 'Архив созвездий'],
+    sr: ['Ključ Snova', 'Dnevni izazov', 'Misije', 'Trening', 'Arhiva sazvežđa'],
+    es: ['Llave de los Sueños', 'Reto Diario', 'Misiones', 'Entrenamiento', 'Archivo de constelaciones'],
+    pt: ['Chave dos Sonhos', 'Desafio Diário', 'Missões', 'Treinamento', 'Arquivo de constelações'],
+    de: ['Schlüssel der Träume', 'Tägliche Herausforderung', 'Missionen', 'Training', 'Sternbildarchiv'],
+    fr: ['Clé des Rêves', 'Défi Quotidien', 'Missions', 'Entraînement', 'Archive des constellations'],
+    ja: ['夢の鍵', 'デイリーチャレンジ', 'ミッション', 'トレーニング', '星座アーカイブ'],
+    ko: ['꿈의 열쇠', '데일리 챌린지', '미션', '연습 모드', '별자리 아카이브'],
+    tr: ['Rüyaların Anahtarı', 'Günlük Görev', 'Görevler', 'Antrenman', 'Takımyıldız arşivi'],
+    th: ['กุญแจแห่งความฝัน', 'ภารกิจประจำวัน', 'ภารกิจ', 'ฝึกฝน', 'คลังกลุ่มดาว'],
+    id: ['Kunci Mimpi', 'Tantangan Harian', 'Misi', 'Latihan', 'Arsip rasi bintang'],
+    zh: ['梦之钥匙', '每日挑战', '任务', '训练模式', '星座档案'],
+};
+const canonicalKeys = ['demo_reveal_title', 'feature_daily_title', 'feature_missions_title', 'feature_practice_title', 'collection_eyebrow'];
+for (const locale of locales) {
+    canonicalKeys.forEach((key, index) => {
+        const expected = canonicalProductTerms[locale][index];
+        if (translations[locale][key] !== expected) {
+            throw new Error(`${locale}.${key} must match the in-game term "${expected}".`);
+        }
+    });
+}
 console.log(`Localization test passed: ${locales.length} locales × ${englishKeys.length} Stage 2 keys.`);

diff --git a/tools/validate_site.py b/tools/validate_site.py
@@ -39,6 +39,21 @@ EXPECTED_ASO_FIELDS = {
     "Description",
     "Release Notes",
 }
+EXPORT_LOCALE_COLUMNS = {
+    "en": "English(en)",
+    "ru": "Russian(ru)",
+    "sr": "Serbian (Latin)(sr-Latn)",
+    "es": "Spanish(es)",
+    "pt": "Portuguese (Brazil)(pt-BR)",
+    "de": "German(de)",
+    "fr": "French(fr)",
+    "ja": "Japanese(ja)",
+    "ko": "Korean(ko)",
+    "tr": "Turkish(tr)",
+    "th": "Thai(th)",
+    "id": "Indonesian(id)",
+    "zh": "Chinese (Simplified)(zh-CN)",
+}
 
 
 @dataclass
@@ -126,9 +141,10 @@ def validate_site(site_root: Path, manifest: dict[str, Any], report: Report, req
     consent_locales = set(re.findall(r"^\s{8}([a-z]{2}): \{", consent_block, re.MULTILINE))
     report.require(set(locales) == consent_locales, "product locales and consent translations differ")
 
+    stage2_base_localization = stage2_localization.split("// Product copy aligned", 1)[0]
     stage2_blocks = re.findall(
         r"^    ([a-z]{2}): \{\n(.*?)(?=^    [a-z]{2}: \{|^\};)",
-        stage2_localization,
+        stage2_base_localization,
         re.MULTILINE | re.DOTALL,
     )
     stage2_locales = {locale for locale, _ in stage2_blocks}
@@ -257,6 +273,50 @@ def validate_aso(aso_path: Path, manifest: dict[str, Any], report: Report) -> No
         report.require(count in description.get(locale, ""), f"ASO Description/{locale} does not mention {count} constellations")
 
 
+def validate_localization_exports(exports_root: Path, site_root: Path, report: Report) -> None:
+    term_sources = {
+        "demo_reveal_title": ("Saga.csv", "constellation1.title"),
+        "feature_daily_title": ("DailyChallenge.csv", "info.popup_title"),
+        "feature_missions_title": ("Missions.csv", "popup.title"),
+        "feature_practice_title": ("Saga.csv", "noHearts.practice"),
+        "collection_eyebrow": ("Saga.csv", "collection.title"),
+    }
+    source_rows: dict[tuple[str, str], dict[str, str]] = {}
+    for file_name in sorted({file_name for file_name, _ in term_sources.values()}):
+        path = exports_root / file_name
+        try:
+            with path.open(encoding="utf-8-sig", newline="") as handle:
+                rows = list(csv.DictReader(handle))
+        except OSError as error:
+            report.errors.append(f"Cannot read localization export {path}: {error}")
+            continue
+        for row in rows:
+            source_rows[(file_name, row.get("Key", ""))] = row
+
+    stage2_source = (site_root / "stage2-localization.js").read_text(encoding="utf-8")
+    aligned_marker = "const alignedProductCopy = {"
+    report.require(aligned_marker in stage2_source, "aligned product-copy block is missing")
+    if aligned_marker not in stage2_source:
+        return
+    aligned_source = stage2_source.split(aligned_marker, 1)[1].split("Object.entries(alignedProductCopy)", 1)[0]
+    locale_blocks = dict(re.findall(
+        r"^    ([a-z]{2}): \{\n(.*?)(?=^    [a-z]{2}: \{|^\};)",
+        aligned_source,
+        re.MULTILINE | re.DOTALL,
+    ))
+
+    for locale, column in EXPORT_LOCALE_COLUMNS.items():
+        block = locale_blocks.get(locale, "")
+        report.require(bool(block), f"aligned product-copy block is missing locale {locale}")
+        for site_key, source in term_sources.items():
+            match = re.search(rf"(?:^|,)\s*{re.escape(site_key)}:'([^']*)'", block, re.MULTILINE)
+            actual = match.group(1) if match else None
+            expected = source_rows.get(source, {}).get(column)
+            report.require(expected is not None, f"missing {source[1]} in {source[0]} for {locale}")
+            if expected is not None:
+                report.require(actual == expected, f"{locale}.{site_key} differs from {source[0]}:{source[1]}")
+
+
 def parse_args() -> argparse.Namespace:
     parser = argparse.ArgumentParser(description=__doc__)
     default_root = Path(__file__).resolve().parents[1]
@@ -264,6 +324,7 @@ def parse_args() -> argparse.Namespace:
     parser.add_argument("--manifest", type=Path, help="Override product.json (useful for validation tests)")
     parser.add_argument("--unity-project", type=Path, help="Validate version, chapters, and release features against Unity")
     parser.add_argument("--aso-metadata", type=Path, help="Validate locales and product facts against ASO_Metadata.csv")
+    parser.add_argument("--localization-exports", type=Path, help="Validate public product terms against Unity Localization CSV exports")
     parser.add_argument("--require-ga4", action="store_true", help="Fail if GA4_MEASUREMENT_ID is not configured")
     return parser.parse_args()
 
@@ -281,6 +342,8 @@ def main() -> int:
             validate_unity(args.unity_project.resolve(), manifest, report)
         if args.aso_metadata:
             validate_aso(args.aso_metadata.resolve(), manifest, report)
+        if args.localization_exports:
+            validate_localization_exports(args.localization_exports.resolve(), site_root, report)
 
     for warning in report.warnings:
         print(f"WARNING: {warning}")
